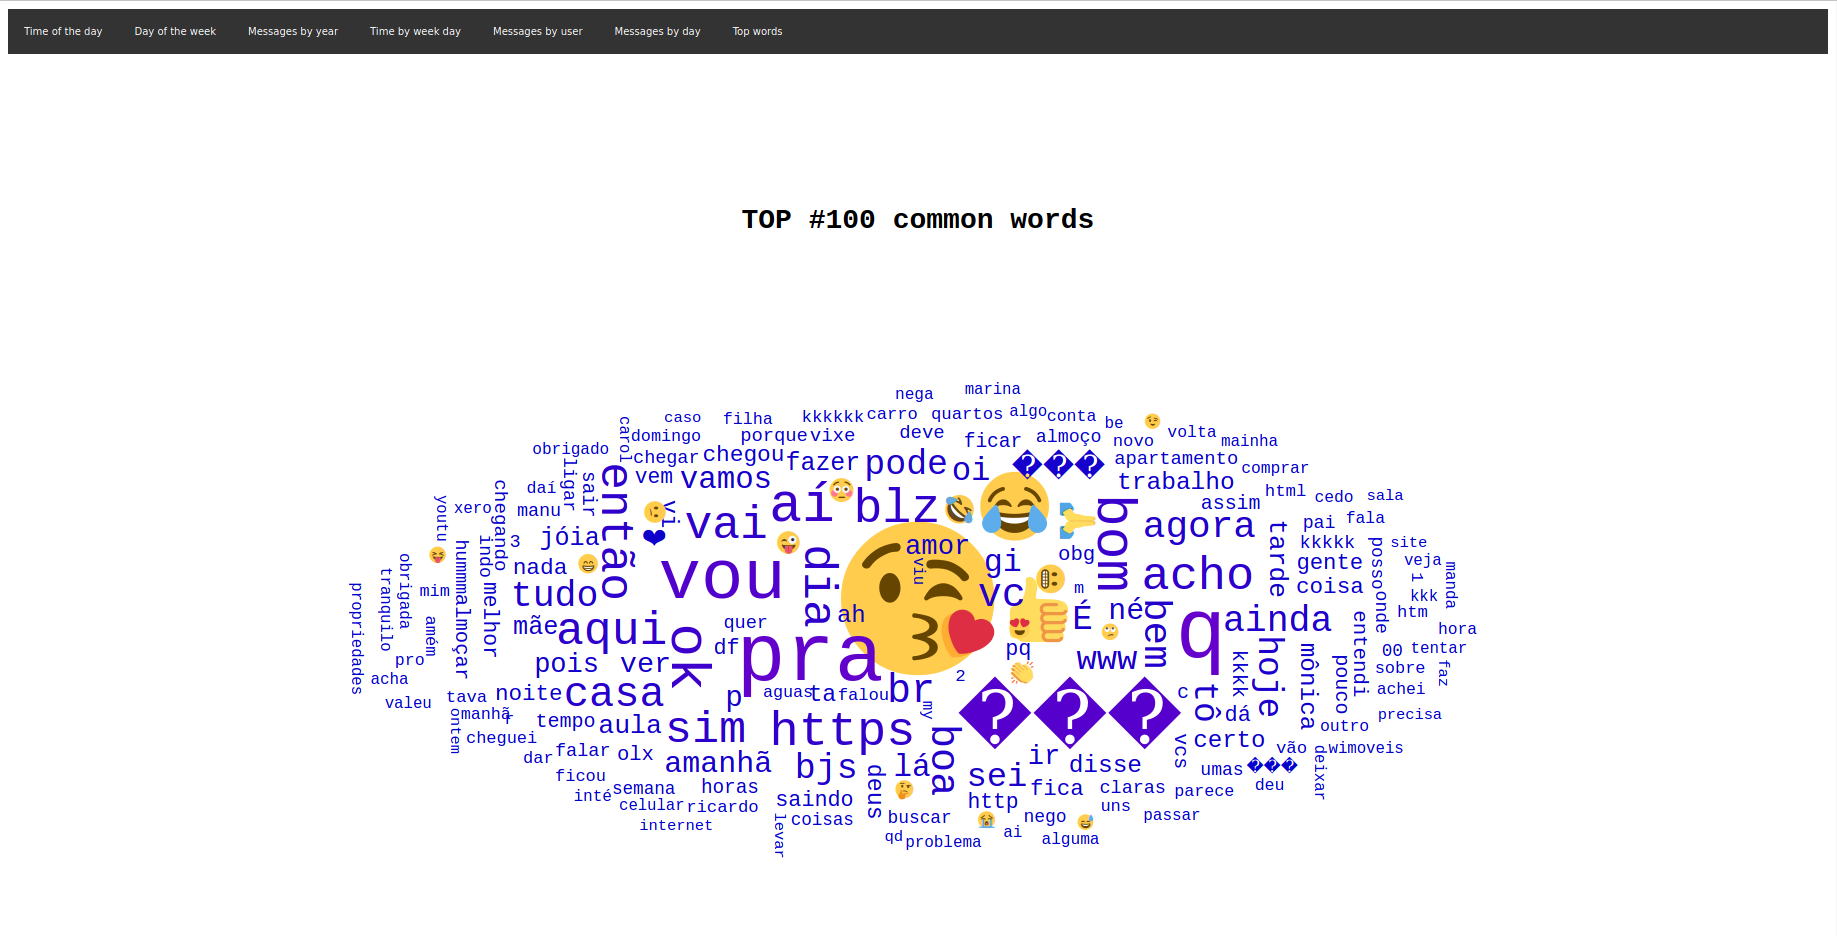
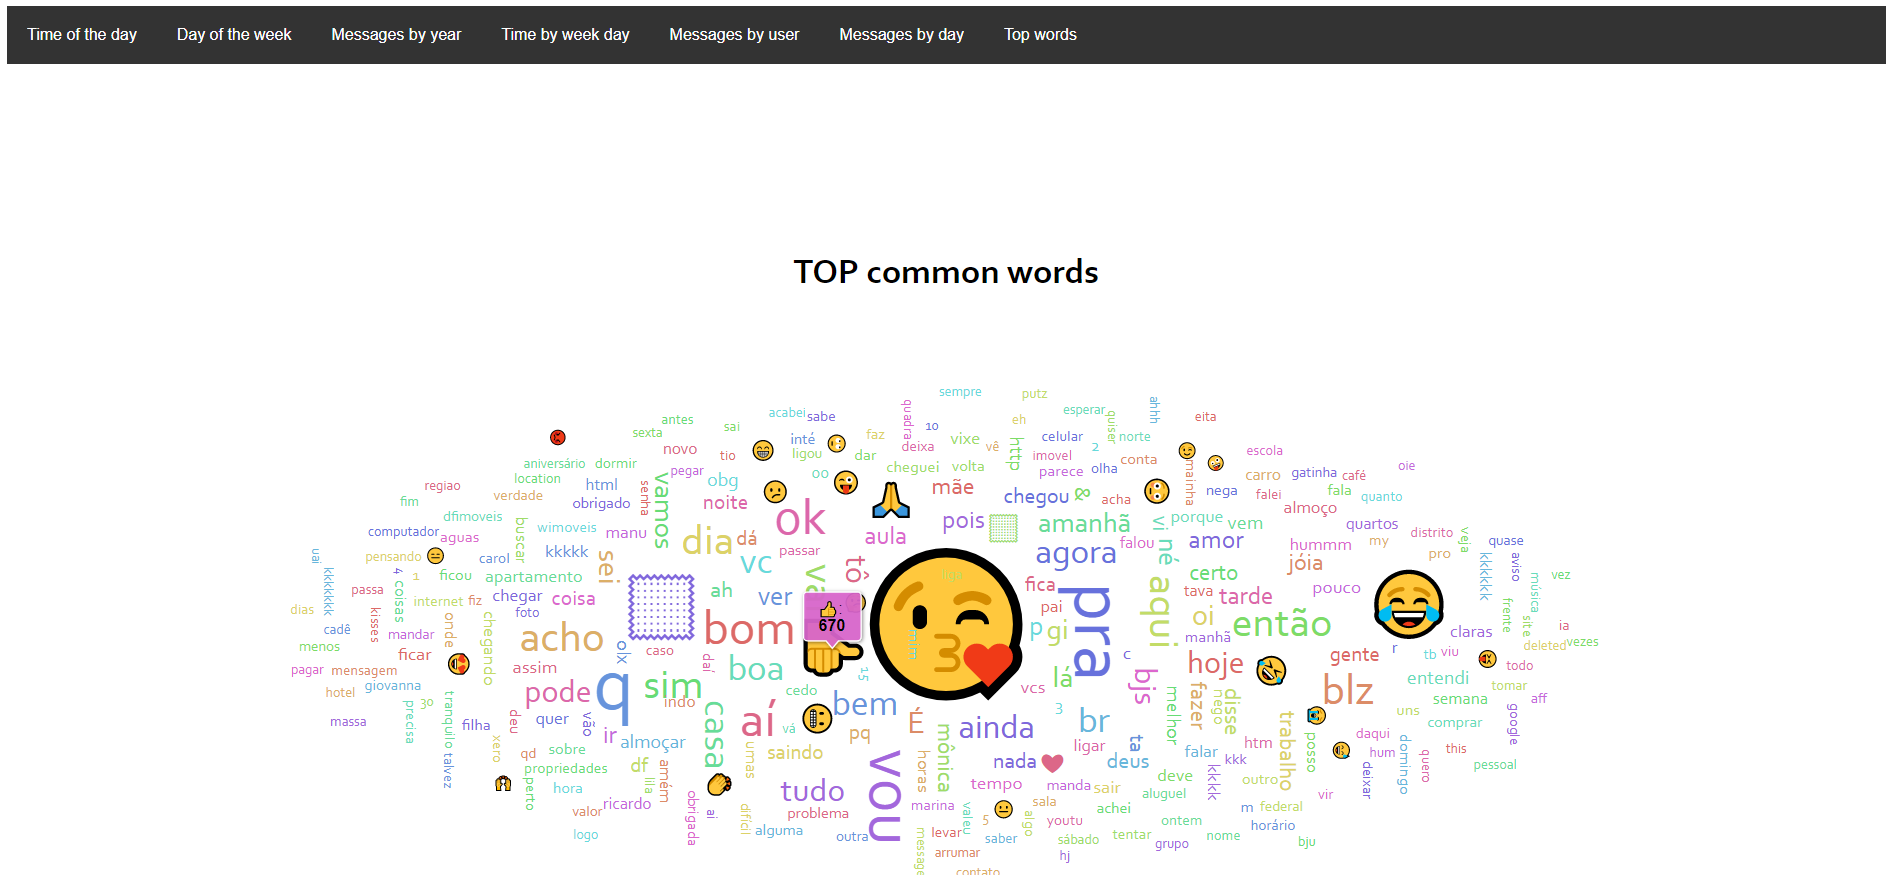
word cloud setings.

diff --git a/commom_words.php b/commom_words.php
@@ -4,21 +4,21 @@ $sql = "
 SELECT lower(word) AS word, count(lower(word)) AS Total FROM stats 
 WHERE word NOT IN ('media')
 GROUP BY word ORDER BY Total DESC
-LIMIT 200
+LIMIT 300
 ";
 $results = $db->query($sql);
 $dataset = "";
 
 while ($row = $results->fetchArray()) {
 
-    $dataset .= "{\"tag\": \"{$row['word']}\", \"count\": \"{$row['Total']}\" },";
+    $dataset .= "{\"word\": \"{$row['word']}\", \"count\": \"{$row['Total']}\" },";
 }
 ?>
 <!-- Styles -->
 <style>
     #chartdiv {
         width: 100%;
-        height: 50vh;
+        height: 80vh;
     }
 </style>
 
@@ -39,29 +39,36 @@ while ($row = $results->fetchArray()) {
 
 
         var chart = am4core.create("chartdiv", am4plugins_wordCloud.WordCloud);
-        chart.fontFamily = "Courier New";
+        chart.fontFamily = "Corbel, Arial, Sans-Serif";
         var series = chart.series.push(new am4plugins_wordCloud.WordCloudSeries());
-        series.randomness = 0.1;
+
+        /*
+                series.events.on("arrangestarted", function(ev) {
+                    ev.target.baseSprite.preloader.show(0);
+                });
+
+                series.events.on("arrangeprogress", function(ev) {
+                    ev.target.baseSprite.preloader.progress = ev.progress;
+                });
+        */
+
+        series.randomness = 0.2;
         series.rotationThreshold = 0.5;
 
         series.data = [<?= $dataset ?>];
 
-
-        series.dataFields.word = "tag";
+        series.dataFields.word = "word";
         series.dataFields.value = "count";
+        series.colors = new am4core.ColorSet();
+        series.colors.passOptions = {};
 
-        series.heatRules.push({
-            "target": series.labels.template,
-            "property": "fill",
-            "min": am4core.color("#0000CC"),
-            "max": am4core.color("#CC00CC"),
-            "dataField": "value"
-        });
+        series.labels.template.tooltipText = "{word}:\n[bold]{count}[/]";
+
 
         var hoverState = series.labels.template.states.create("hover");
         hoverState.properties.fill = am4core.color("#FF0000");
         var title = chart.titles.create();
-        title.text = "TOP #100 common words";
+        title.text = "TOP common words";
         title.fontSize = 28;
         title.fontWeight = "800";
 

diff --git a/word_cloud.php b/word_cloud.php
@@ -1,0 +1,74 @@
+<?php
+
+$sql = "
+SELECT word FROM stats
+WHERE word IN (
+    SELECT word FROM (
+        SELECT word, count(word) as Total FROM stats
+        GROUP BY word
+        ORDER BY Total DESC
+        LIMIT 50
+    )   
+)
+";
+$results = $db->query($sql);
+$dataset = "";
+
+while ($row = $results->fetchArray()) {
+
+    //$dataset .= "{\"tag\": \"{$row['word']}\", \"count\": \"{$row['Total']}\" },";
+    $dataset .= "{$row['word']},";
+}
+?>
+<!-- Styles -->
+<style>
+    #chartdiv {
+        width: 100%;
+        height: 60vh;
+    }
+</style>
+
+<!-- Resources -->
+<script src="https://www.amcharts.com/lib/4/core.js"></script>
+<script src="https://www.amcharts.com/lib/4/charts.js"></script>
+<script src="https://www.amcharts.com/lib/4/plugins/wordCloud.js"></script>
+<script src="https://www.amcharts.com/lib/4/themes/animated.js"></script>
+
+<!-- Chart code -->
+<script>
+    am4core.ready(function() {
+
+        // Themes begin
+        am4core.useTheme(am4themes_animated);
+        // Themes end
+
+
+        var chart = am4core.create("chartdiv", am4plugins_wordCloud.WordCloud);
+        var series = chart.series.push(new am4plugins_wordCloud.WordCloudSeries());
+
+        series.accuracy = 4;
+        series.step = 15;
+        series.rotationThreshold = 0.7;
+        series.maxCount = 200;
+        series.minWordLength = 2;
+        series.labels.template.margin(4, 4, 4, 4);
+        series.maxFontSize = am4core.percent(30);
+
+        series.text = "<?= $dataset ?>";
+
+        series.colors = new am4core.ColorSet();
+        series.colors.passOptions = {}; // makes it loop
+
+        //series.labelsContainer.rotation = 45;
+        series.angles = [0, -90];
+        series.fontWeight = "700"
+
+        setInterval(function() {
+            series.dataItems.getIndex(Math.round(Math.random() * (series.dataItems.length - 1))).setValue("value", Math.round(Math.random() * 10));
+        }, 10000)
+
+    }); // end am4core.ready()
+</script>
+
+<!-- HTML -->
+<div id="chartdiv"></div>
